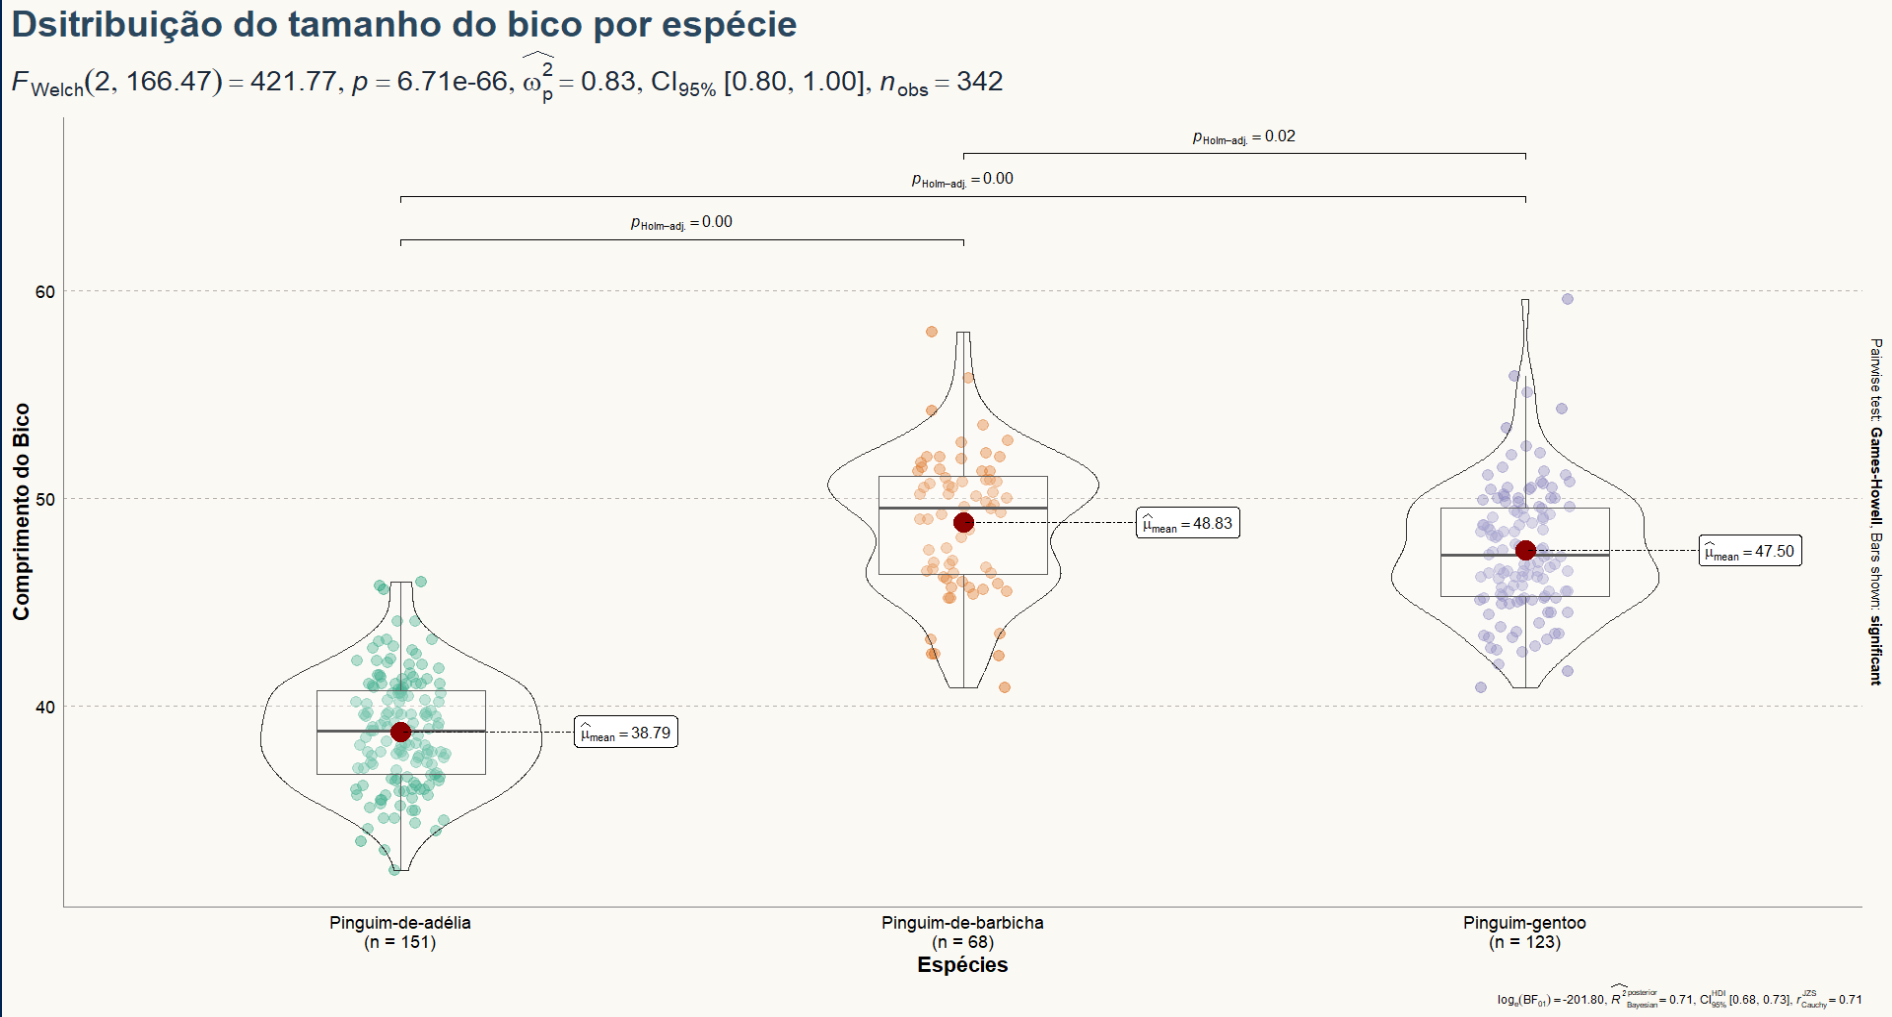
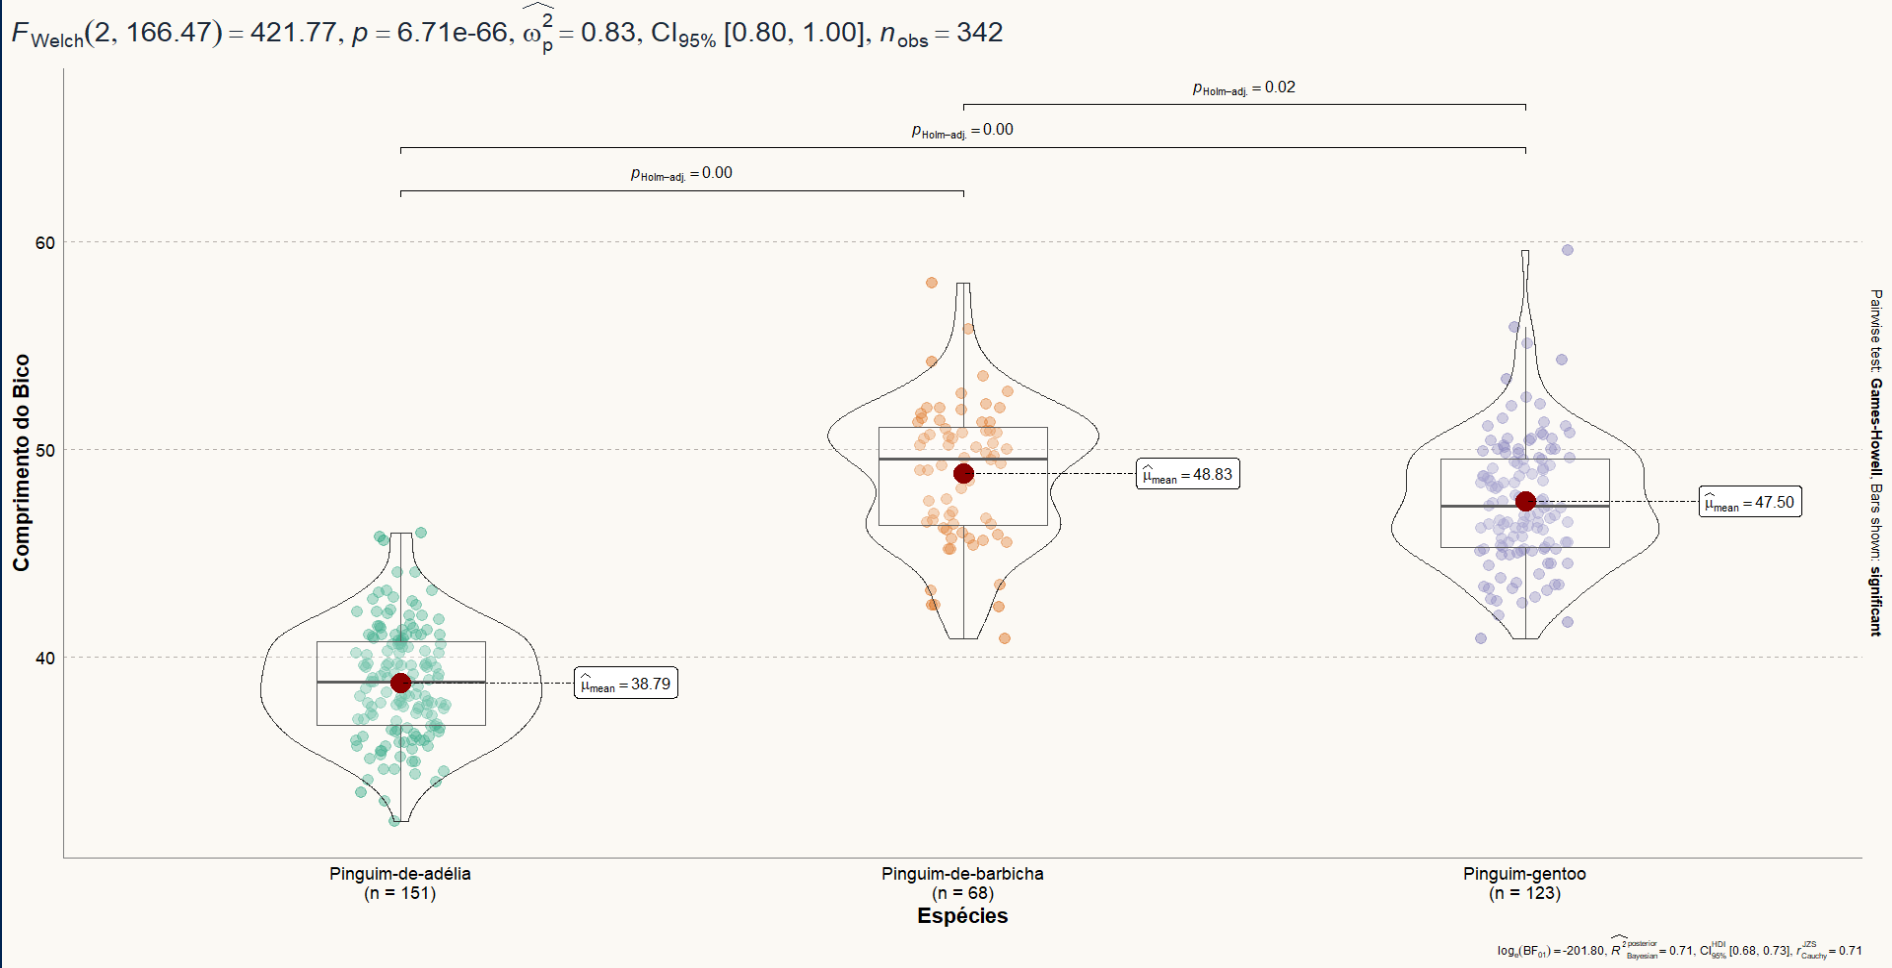
a

diff --git a/docs/projetos-R/posts/anova.html b/docs/projetos-R/posts/anova.html
@@ -143,7 +143,7 @@ window.Quarto = {
 <meta property="og:description" content="ANOVA">
 <meta property="og:image" content="https://welli45.github.io/portifolio-dados.github.io/projetos-R/images/09-anova/anova.png">
 <meta property="og:site_name" content="Portifólio de Dados">
-<meta property="og:image:height" content="1017">
+<meta property="og:image:height" content="968">
 <meta property="og:image:width" content="1892">
 <meta name="twitter:title" content="Portifólio // Wellington S. Souza">
 <meta name="twitter:description" content="Curva-Normal">
@@ -151,7 +151,7 @@ window.Quarto = {
 <meta name="twitter:creator" content="@welli45">
 <meta name="twitter:site" content="@welli45">
 <meta name="twitter:card" content="summary_large_image">
-<meta name="twitter:image-height" content="1017">
+<meta name="twitter:image-height" content="968">
 <meta name="twitter:image-width" content="1892">
 </head>
 
@@ -615,7 +615,7 @@ Effect sizes were labelled following Field's (2013) recommendations.</code></pre
 <span id="cb14-6"><a href="#cb14-6" aria-hidden="true" tabindex="-1"></a>  <span class="fu">labs</span>(</span>
 <span id="cb14-7"><a href="#cb14-7" aria-hidden="true" tabindex="-1"></a>    <span class="at">x =</span> <span class="st">"Espécies"</span>,</span>
 <span id="cb14-8"><a href="#cb14-8" aria-hidden="true" tabindex="-1"></a>    <span class="at">y =</span> <span class="st">"Comprimento do Bico"</span>,</span>
-<span id="cb14-9"><a href="#cb14-9" aria-hidden="true" tabindex="-1"></a>    <span class="at">title =</span> <span class="st">"Dsitribuição do tamanho do bico por espécie"</span></span>
+<span id="cb14-9"><a href="#cb14-9" aria-hidden="true" tabindex="-1"></a>    <span class="at">title =</span> <span class="st">"Disitribuição do tamanho do bico por espécie"</span></span>
 <span id="cb14-10"><a href="#cb14-10" aria-hidden="true" tabindex="-1"></a>  ) <span class="sc">+</span> </span>
 <span id="cb14-11"><a href="#cb14-11" aria-hidden="true" tabindex="-1"></a>  <span class="fu">theme</span>(</span>
 <span id="cb14-12"><a href="#cb14-12" aria-hidden="true" tabindex="-1"></a>    <span class="at">text =</span> <span class="fu">element_text</span>(<span class="at">size =</span> <span class="dv">8</span>, <span class="at">color =</span> <span class="st">"black"</span>),</span>

diff --git a/docs/index.html b/docs/index.html
@@ -308,7 +308,7 @@ window.Quarto = {
 <p>Clique <a href="./projetos-R/index.html">aqui</a> para acesar meus projetos em R.</p>
 <div id="listing-landing-posts" class="quarto-listing quarto-listing-container-default">
 <div class="list quarto-listing-default">
-<div class="quarto-post image-right" data-index="0" data-categories="QW4lQzMlQTFsaXNlJTIwZGUlMjBWYXJpJUMzJUEybmNpYSUyQ0FOT1ZB" data-listing-date-sort="1735354800000" data-listing-file-modified-sort="1735485305604" data-listing-date-modified-sort="NaN" data-listing-reading-time-sort="5" data-listing-word-count-sort="851">
+<div class="quarto-post image-right" data-index="0" data-categories="QW4lQzMlQTFsaXNlJTIwZGUlMjBWYXJpJUMzJUEybmNpYSUyQ0FOT1ZB" data-listing-date-sort="1735354800000" data-listing-file-modified-sort="1735486292732" data-listing-date-modified-sort="NaN" data-listing-reading-time-sort="5" data-listing-word-count-sort="851">
 <div class="thumbnail">
 <p><a href="./projetos-R/posts/anova.html" class="no-external"></a></p><a href="./projetos-R/posts/anova.html" class="no-external">
 <p class="card-img-top"><img src="projetos-R\images\09-anova\anova.png"  class="thumbnail-image card-img"/></p>

diff --git a/docs/projetos-R/index.html b/docs/projetos-R/index.html
@@ -293,7 +293,7 @@ window.Quarto = {
     </div>
 </div>
 <div class="list quarto-listing-default">
-<div class="quarto-post image-left" data-index="0" data-categories="QW4lQzMlQTFsaXNlJTIwZGUlMjBWYXJpJUMzJUEybmNpYSUyQ0FOT1ZB" data-listing-date-sort="1735354800000" data-listing-file-modified-sort="1735485305604" data-listing-date-modified-sort="NaN" data-listing-reading-time-sort="5" data-listing-word-count-sort="851">
+<div class="quarto-post image-left" data-index="0" data-categories="QW4lQzMlQTFsaXNlJTIwZGUlMjBWYXJpJUMzJUEybmNpYSUyQ0FOT1ZB" data-listing-date-sort="1735354800000" data-listing-file-modified-sort="1735486292732" data-listing-date-modified-sort="NaN" data-listing-reading-time-sort="5" data-listing-word-count-sort="851">
 <div class="thumbnail">
 <p><a href="../projetos-R/posts/anova.html" class="no-external"></a></p><a href="../projetos-R/posts/anova.html" class="no-external">
 <p class="card-img-top"><img src="images\09-anova\anova.png"  class="thumbnail-image card-img"/></p>
